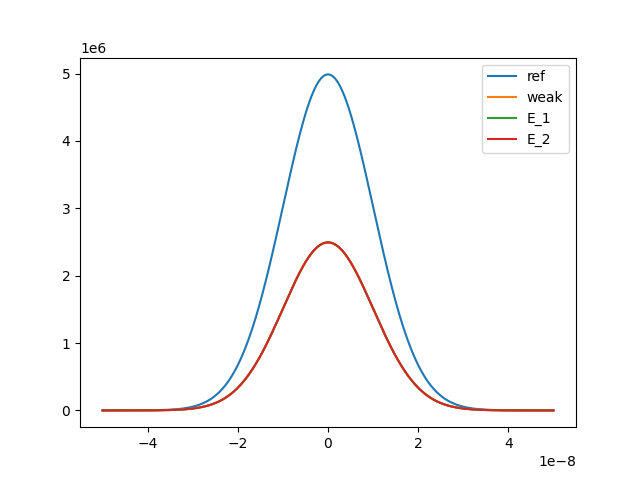
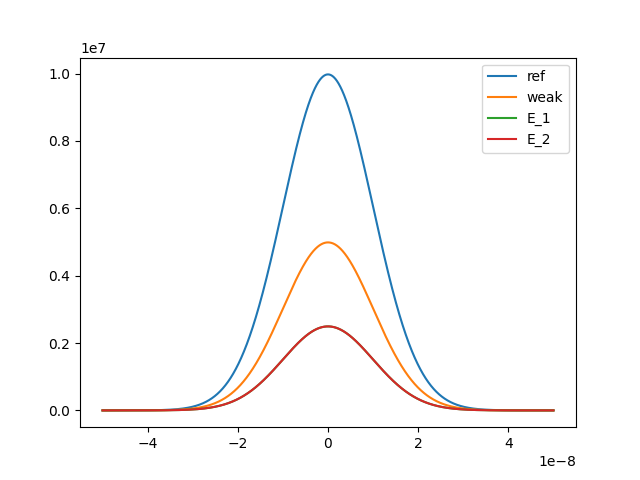
new solutions

diff --git a/temporal_delay_sim.py b/temporal_delay_sim.py
@@ -28,7 +28,7 @@ distances = np.linspace(d_min, d_max, N)
 time = np.linspace(d_min/c, d_max/c, N)
 
 l1 = 0.1
-l2 = 0.2
+l2 = 10
 path_diff = l1 - l2
 tau = path_diff/c
 
